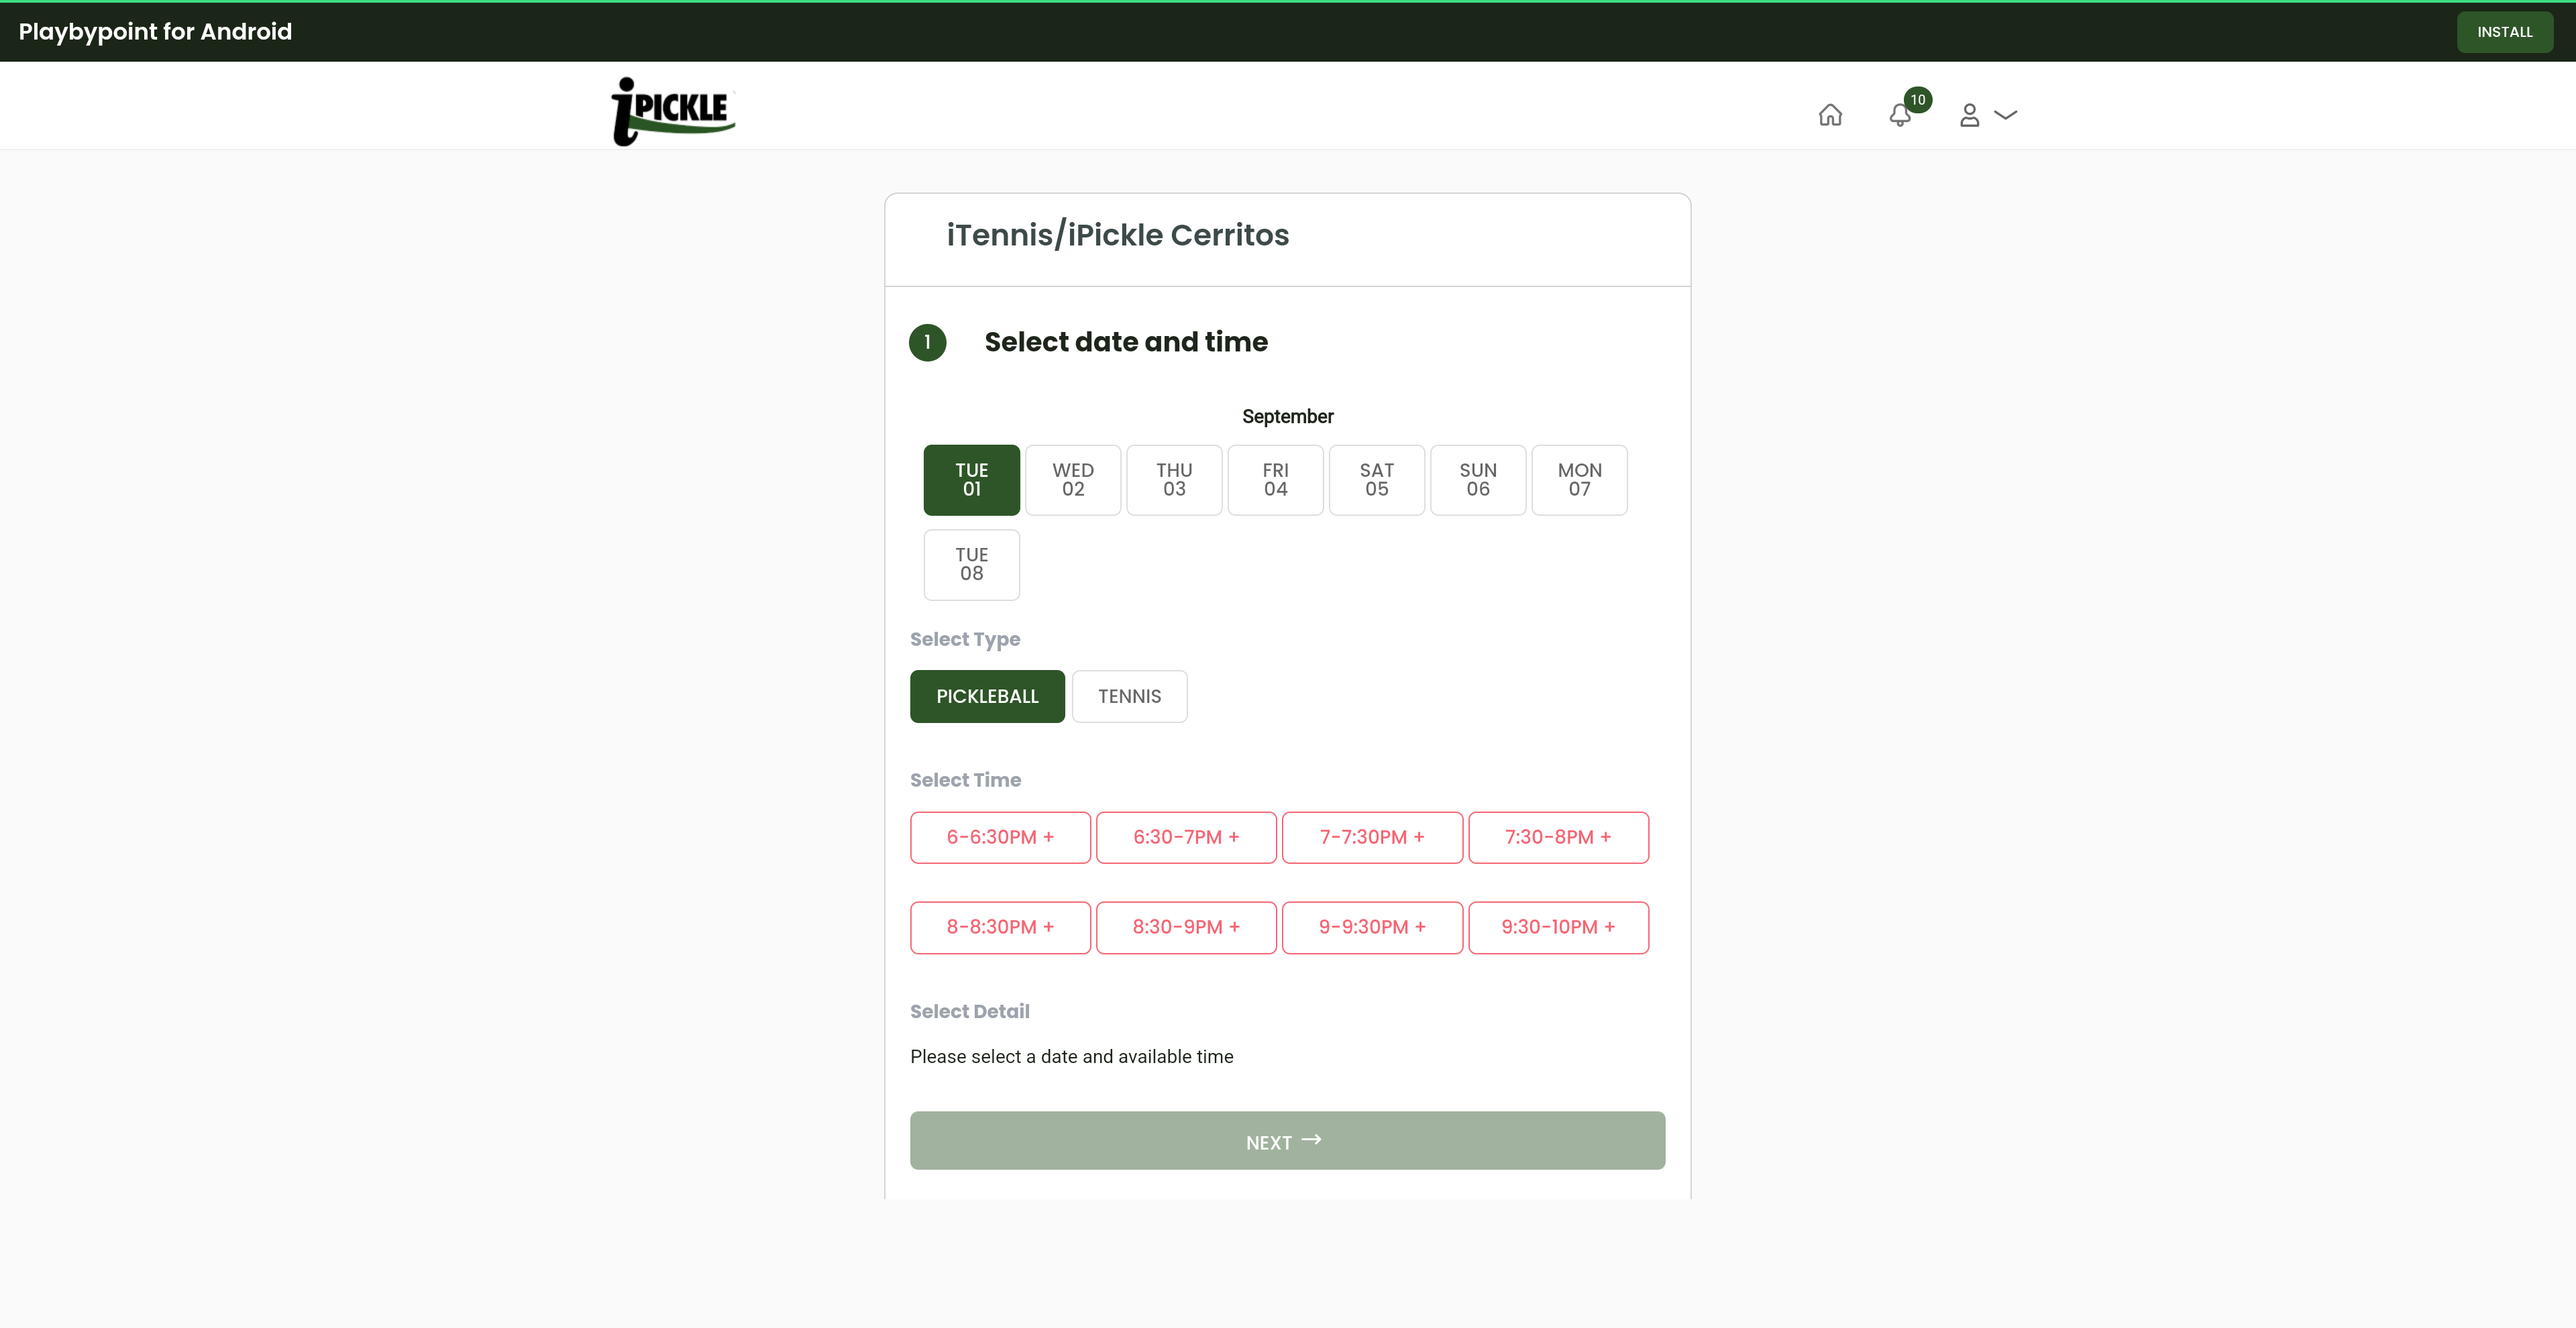
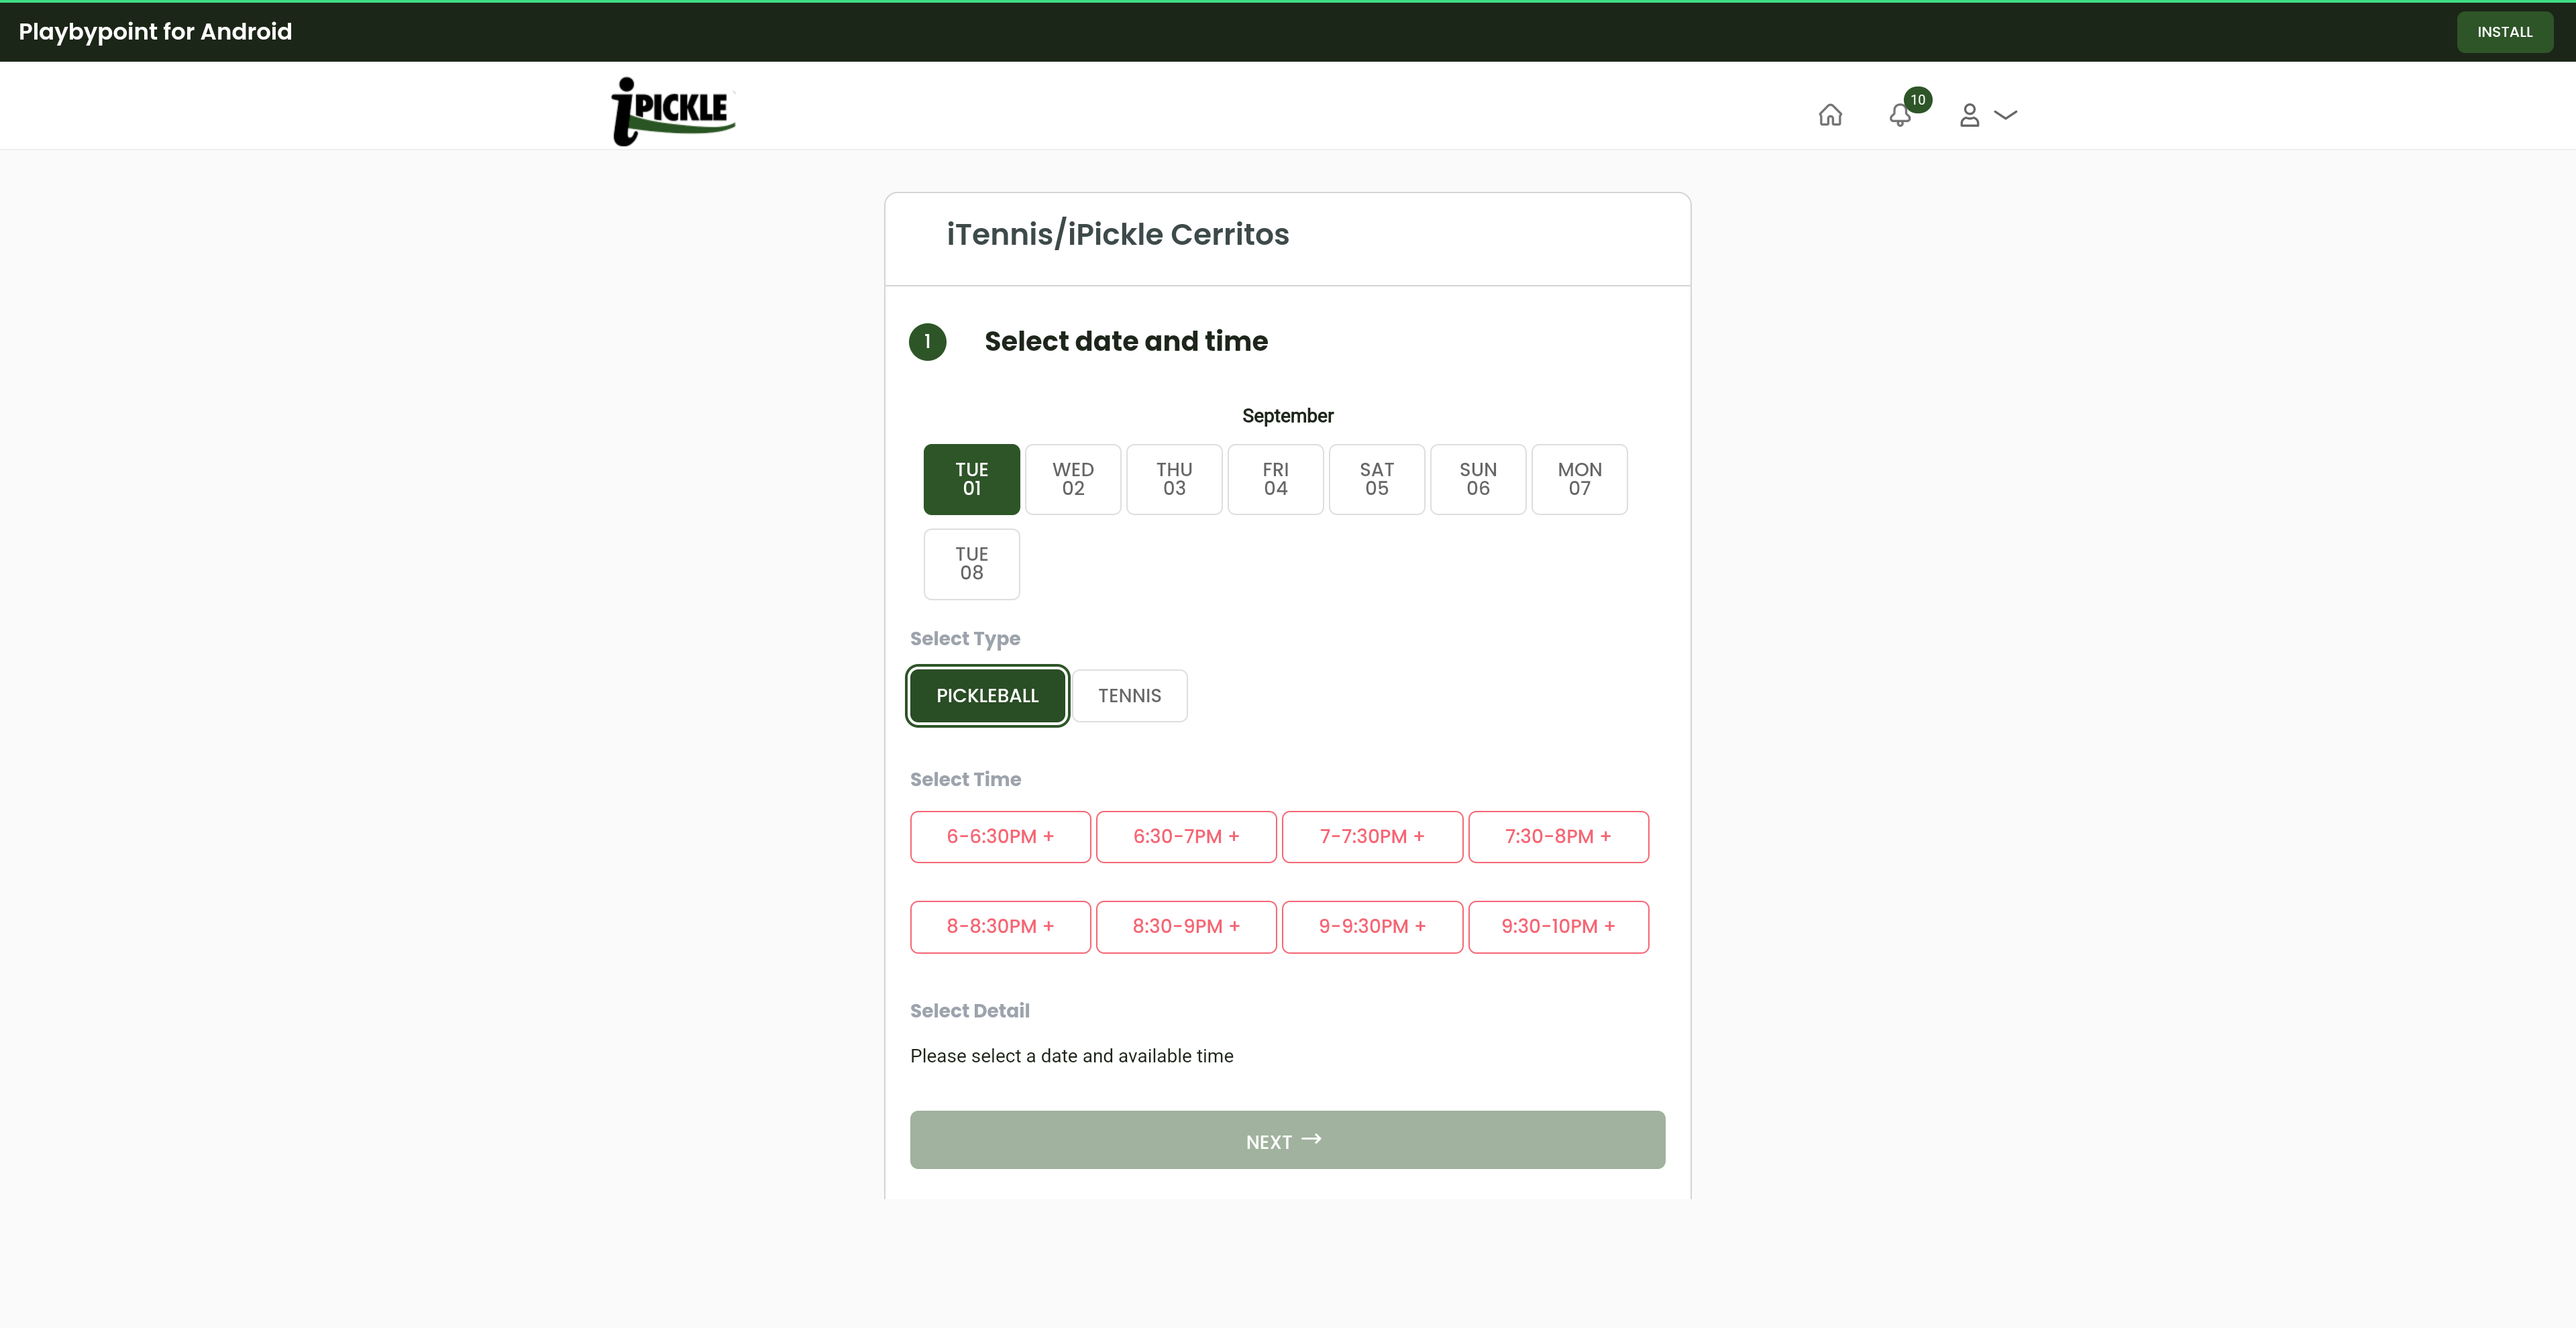
trying new machine loadout

Changed region(s): [[0.3438, 0.4929, 0.4062, 0.5545], [0.4375, 0.6778, 0.4688, 0.7086], [0.375, 0.6778, 0.4062, 0.7086]]

diff --git a/src/browser/selectors.ts b/src/browser/selectors.ts
@@ -8,5 +8,6 @@ export const bookingSelectors = {
   frame: "iframe[src*='greenfield.playbypoint.com']",
   bookNow: "//span[normalize-space()='Book Now']/ancestor::button[1]",
   reserveFullCourt: "//span[contains(text(),'Reserve a full court')]/ancestor::button",
-  next: "//span[text()='Next']"
+  next: "//span[text()='Next']",
+  typePickleball: "//button[text()='Pickleball']",
 } as const;

diff --git a/src/browser/navigate-to-booking.ts b/src/browser/navigate-to-booking.ts
@@ -129,4 +129,10 @@ export async function navigateToBooking(browser: Browser) {
     "Next",
     bookingSelectors.next,
   );
+
+  await clickXPath(
+    browser,
+    "Type: Pickleball",
+    bookingSelectors.typePickleball,
+  );
 }
